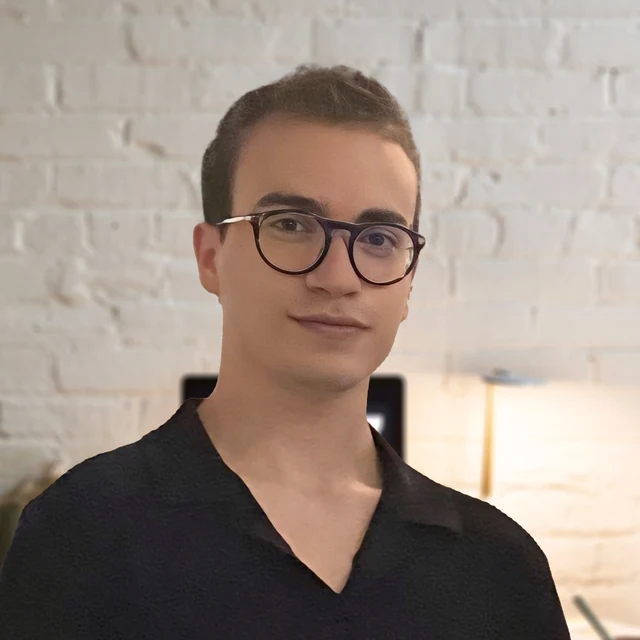
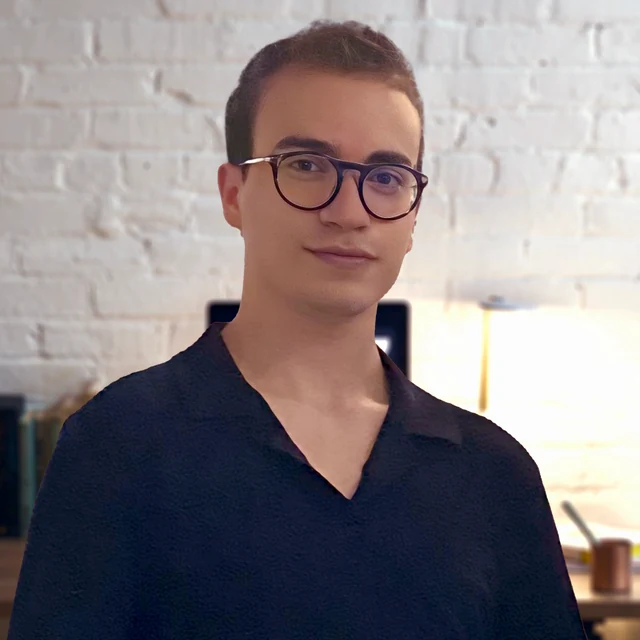
New colour-graded portrait and a darker ring
public/profile.webp is regenerated from the new square photo. The large source
photos stay out of the repo. The ring is now about 25% darker than the accent.

diff --git a/src/components/Hero.jsx b/src/components/Hero.jsx
@@ -17,7 +17,7 @@ function Portrait() {
       {/* gradient ring */}
       <div
         className="relative rounded-full p-[3px] shadow-[0_20px_60px_-20px_rgba(61,208,196,0.45)]"
-        style={{ background: 'linear-gradient(135deg, #37bbb0, #6397e6, #37bbb0)' }}
+        style={{ background: 'linear-gradient(135deg, #2e9c93, #537ebf, #2e9c93)' }}
       >
         <div className="rounded-full bg-bg p-[3px]">
           <img

diff --git a/README.md b/README.md
@@ -142,8 +142,16 @@ no screenshot. It is plain SVG and can be edited in a text editor.
 
 ### Replace the portrait
 
-Overwrite `public/profile.webp` with a **square** image (640×640 is plenty). The circular shape,
-ring and glow come from the CSS, so any square photo works.
+The site shows `public/profile.webp`, a 640×640 compressed copy of the square source photo
+`public/profile.png` (the source is git-ignored because it is several MB). After replacing
+`profile.png` with a new **square** photo, regenerate the web copy:
+
+```bash
+python -c "from PIL import Image; Image.open('public/profile.png').convert('RGB').resize((640,640)).save('public/profile.webp','WEBP',quality=88)"
+```
+
+The circular shape, ring and glow come from the CSS. The ring colours are set in `Portrait` in
+`Hero.jsx`.
 
 ### Change the colors
 
